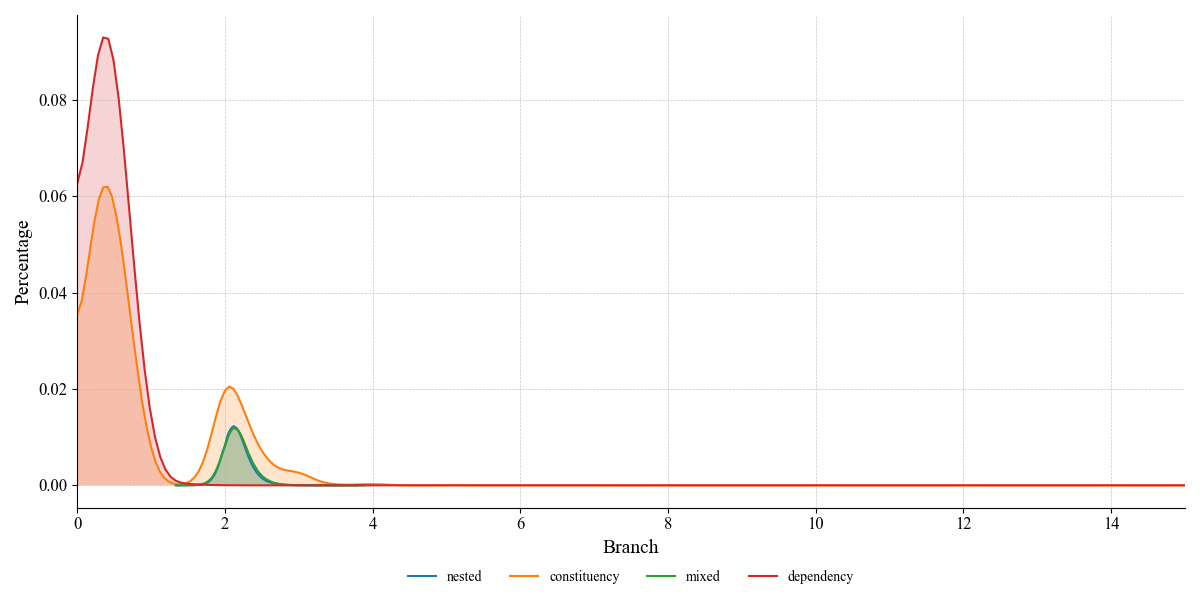
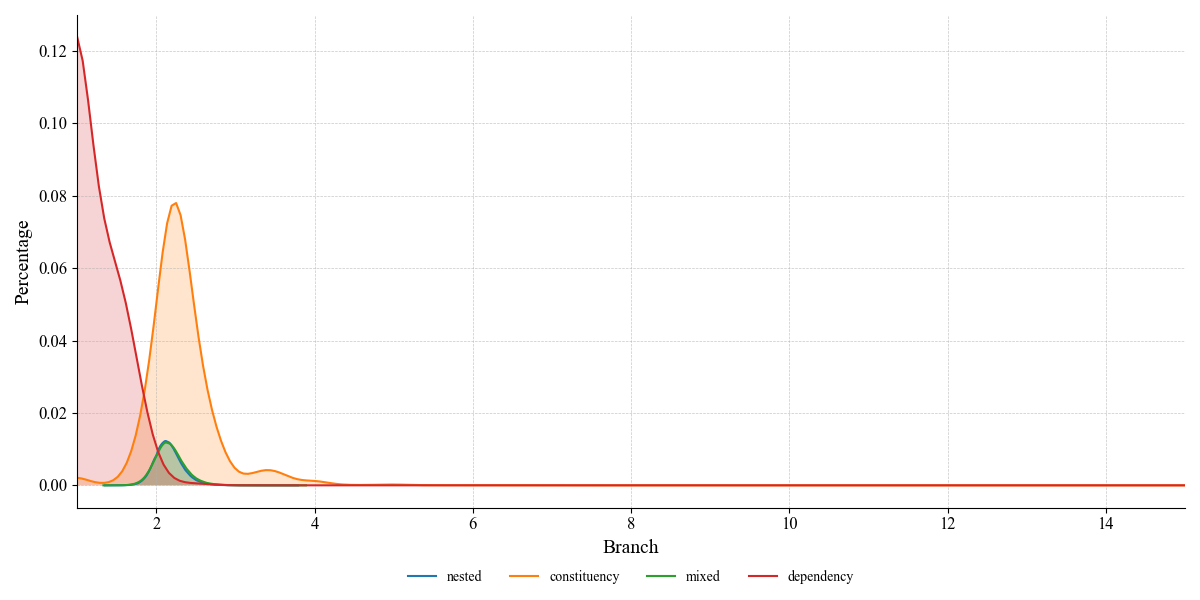
analyze data

Changed region(s): [[0.0308, 0.06, 0.3083, 0.81]]

diff --git a/utils.py b/utils.py
@@ -155,7 +155,7 @@ def branch_distribution(data, output_name, title):
     # plt.title(title)
     plt.xlabel(title)
     plt.ylabel('Percentage')
-    plt.xlim(0, 15) 
+    plt.xlim(1, 15) 
     plt.grid(True, linestyle='--', linewidth=0.5, alpha=0.7)
     ax = plt.gca()
     ax.spines['top'].set_visible(False)
